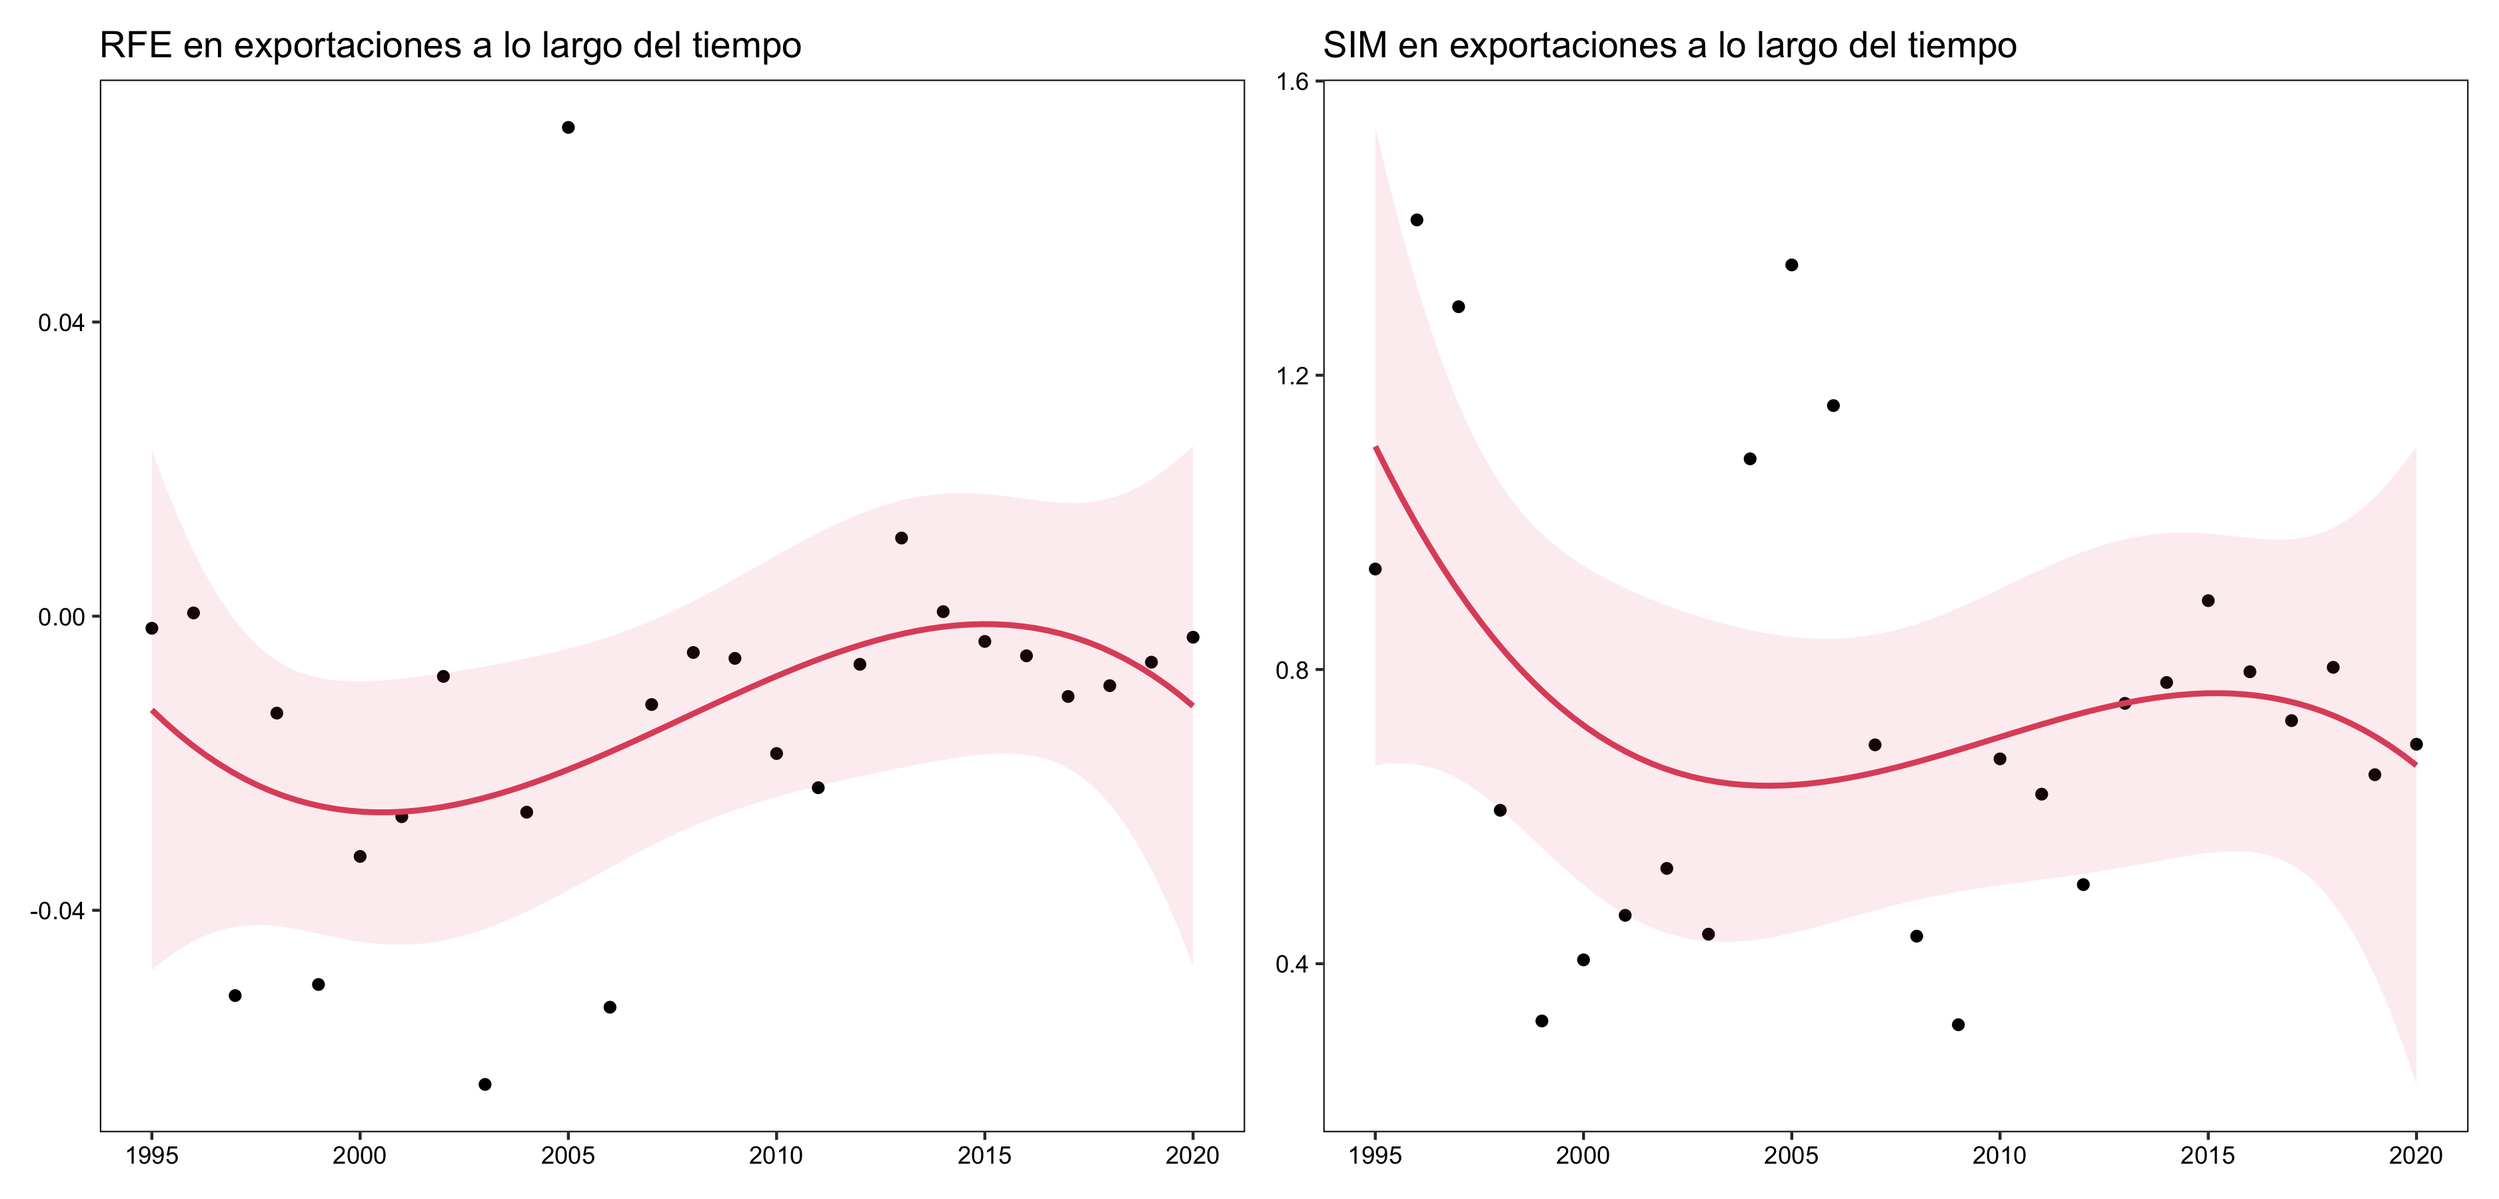
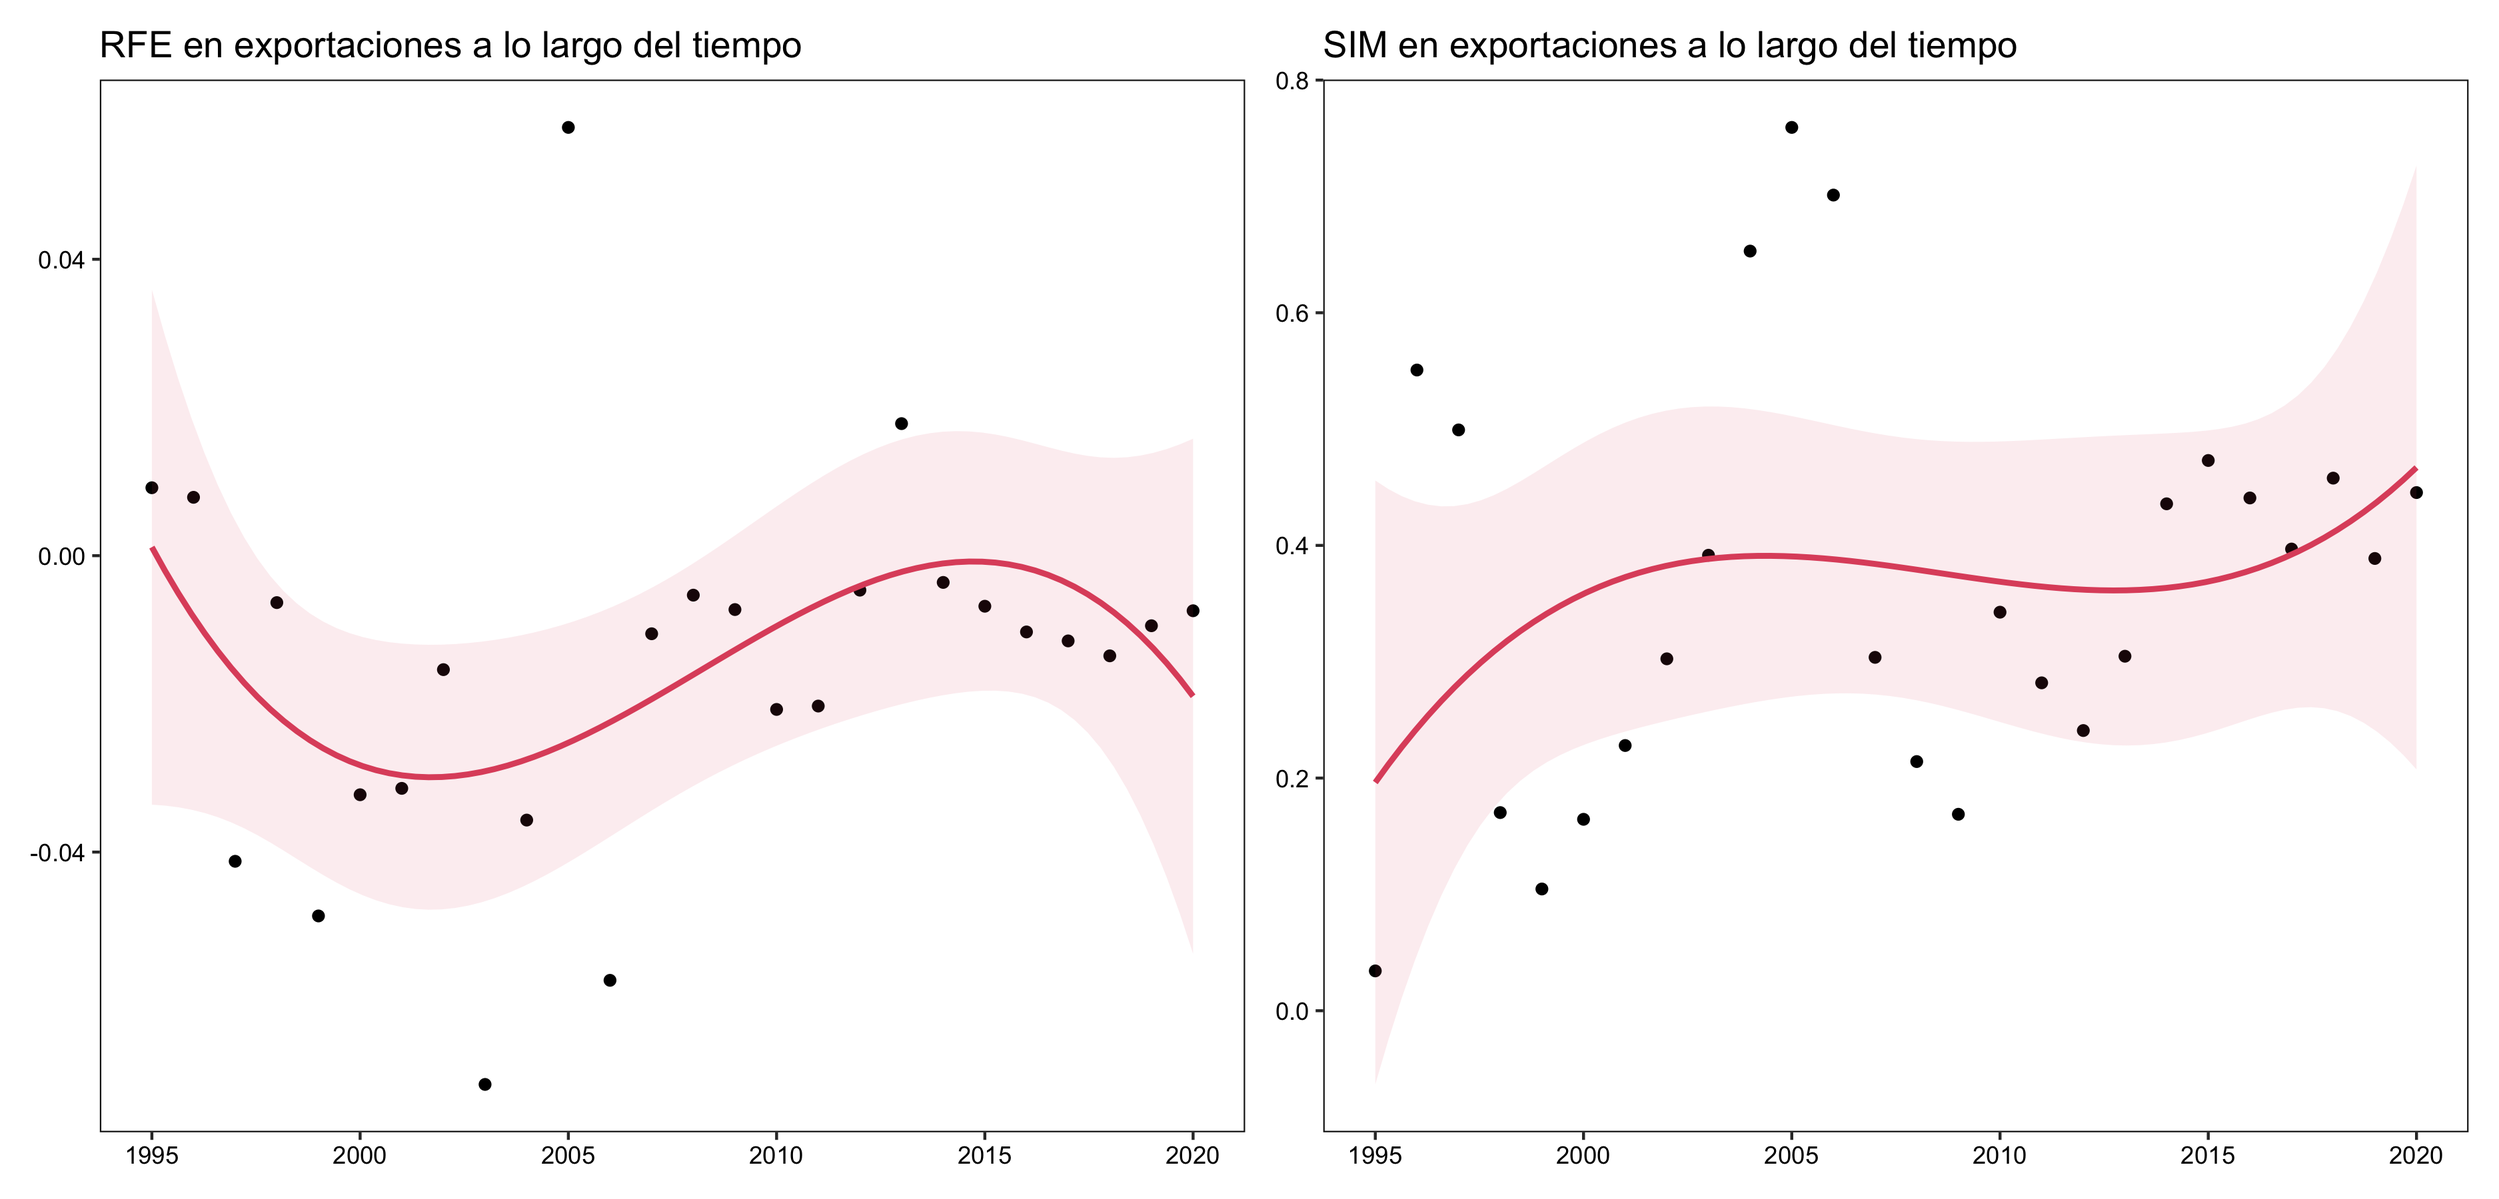
New SIM index

diff --git a/Econometrics/Results/imports.html b/Econometrics/Results/imports.html
@@ -1,41 +1,41 @@
 
 <table style="text-align:center"><tr><td colspan="5" style="border-bottom: 1px solid black"></td></tr><tr><td style="text-align:left"></td><td>OLS</td><td>REE</td><td>FEE</td><td>PPML</td></tr>
-<tr><td style="text-align:left">Suma bilateral del producto interno bruto</td><td>0.431</td><td>1.760<sup>***</sup></td><td>1.835<sup>***</sup></td><td>-0.006</td></tr>
-<tr><td style="text-align:left"></td><td>(0.447)</td><td>(0.262)</td><td>(0.307)</td><td>(0.014)</td></tr>
+<tr><td style="text-align:left">Suma bilateral del producto interno bruto</td><td>3.187<sup>***</sup></td><td>2.108<sup>***</sup></td><td>1.929<sup>***</sup></td><td>0.276<sup>***</sup></td></tr>
+<tr><td style="text-align:left"></td><td>(0.431)</td><td>(0.273)</td><td>(0.308)</td><td>(0.015)</td></tr>
 <tr><td style="text-align:left"></td><td></td><td></td><td></td><td></td></tr>
-<tr><td style="text-align:left">Diferencia en la proporción relativa de factores</td><td>0.301</td><td>-0.004</td><td>-0.023</td><td>-0.021</td></tr>
-<tr><td style="text-align:left"></td><td>(0.692)</td><td>(0.801)</td><td>(1.459)</td><td>(0.022)</td></tr>
+<tr><td style="text-align:left">Diferencia en la proporción relativa de factores</td><td>1.315<sup>*</sup></td><td>0.979</td><td>0.676</td><td>0.108<sup>***</sup></td></tr>
+<tr><td style="text-align:left"></td><td>(0.689)</td><td>(0.610)</td><td>(0.602)</td><td>(0.021)</td></tr>
 <tr><td style="text-align:left"></td><td></td><td></td><td></td><td></td></tr>
-<tr><td style="text-align:left">Similitud en el tamaño de las economías</td><td>23.998<sup>***</sup></td><td>15.061<sup>**</sup></td><td>14.485</td><td>2.416<sup>***</sup></td></tr>
-<tr><td style="text-align:left"></td><td>(5.999)</td><td>(6.206)</td><td>(20.212)</td><td>(0.202)</td></tr>
+<tr><td style="text-align:left">Similitud en el tamaño de las economías</td><td>17.705<sup>***</sup></td><td>11.487<sup>***</sup></td><td>10.143<sup>**</sup></td><td>1.713<sup>***</sup></td></tr>
+<tr><td style="text-align:left"></td><td>(3.311)</td><td>(3.571)</td><td>(5.084)</td><td>(0.114)</td></tr>
 <tr><td style="text-align:left"></td><td></td><td></td><td></td><td></td></tr>
-<tr><td style="text-align:left">Distancia entre principales centros urbanos</td><td>-2.685<sup>***</sup></td><td>-3.212<sup>***</sup></td><td></td><td>-0.221<sup>***</sup></td></tr>
-<tr><td style="text-align:left"></td><td>(0.503)</td><td>(0.582)</td><td></td><td>(0.015)</td></tr>
+<tr><td style="text-align:left">Distancia entre principales centros urbanos</td><td>-1.880<sup>***</sup></td><td>-1.617<sup>**</sup></td><td></td><td>-0.166<sup>***</sup></td></tr>
+<tr><td style="text-align:left"></td><td>(0.614)</td><td>(0.688)</td><td></td><td>(0.016)</td></tr>
 <tr><td style="text-align:left"></td><td></td><td></td><td></td><td></td></tr>
-<tr><td style="text-align:left">Tipo de cambio efectivo real</td><td>-0.064</td><td>-0.154<sup>*</sup></td><td>-0.166</td><td>-0.0002</td></tr>
-<tr><td style="text-align:left"></td><td>(0.113)</td><td>(0.082)</td><td>(0.101)</td><td>(0.003)</td></tr>
+<tr><td style="text-align:left">Tipo de cambio efectivo real</td><td>-0.129</td><td>-0.147<sup>**</sup></td><td>-0.148<sup>*</sup></td><td>-0.013<sup>***</sup></td></tr>
+<tr><td style="text-align:left"></td><td>(0.119)</td><td>(0.061)</td><td>(0.079)</td><td>(0.003)</td></tr>
 <tr><td style="text-align:left"></td><td></td><td></td><td></td><td></td></tr>
-<tr><td style="text-align:left">Fronteras en común</td><td>-2.816<sup>**</sup></td><td>-4.055<sup>**</sup></td><td></td><td>-0.291<sup>***</sup></td></tr>
-<tr><td style="text-align:left"></td><td>(1.388)</td><td>(1.735)</td><td></td><td>(0.033)</td></tr>
+<tr><td style="text-align:left">Fronteras en común</td><td>0.310</td><td>1.016</td><td></td><td>0.013</td></tr>
+<tr><td style="text-align:left"></td><td>(1.351)</td><td>(1.428)</td><td></td><td>(0.034)</td></tr>
 <tr><td style="text-align:left"></td><td></td><td></td><td></td><td></td></tr>
-<tr><td style="text-align:left">Lenguaje en común</td><td>7.043<sup>***</sup></td><td>8.263<sup>***</sup></td><td></td><td>0.733<sup>***</sup></td></tr>
-<tr><td style="text-align:left"></td><td>(1.402)</td><td>(2.195)</td><td></td><td>(0.056)</td></tr>
+<tr><td style="text-align:left">Lenguaje en común</td><td>6.548<sup>***</sup></td><td>3.976<sup>**</sup></td><td></td><td>0.657<sup>***</sup></td></tr>
+<tr><td style="text-align:left"></td><td>(1.299)</td><td>(1.571)</td><td></td><td>(0.048)</td></tr>
 <tr><td style="text-align:left"></td><td></td><td></td><td></td><td></td></tr>
-<tr><td style="text-align:left">Colonizador en común</td><td>-2.509</td><td>-2.648</td><td></td><td>-0.310<sup>***</sup></td></tr>
-<tr><td style="text-align:left"></td><td>(1.590)</td><td>(2.506)</td><td></td><td>(0.039)</td></tr>
+<tr><td style="text-align:left">Colonizador en común</td><td>-3.443<sup>**</sup></td><td>0.937</td><td></td><td>-0.402<sup>***</sup></td></tr>
+<tr><td style="text-align:left"></td><td>(1.608)</td><td>(0.927)</td><td></td><td>(0.040)</td></tr>
 <tr><td style="text-align:left"></td><td></td><td></td><td></td><td></td></tr>
-<tr><td style="text-align:left">Índice de similitud en creencias religiosas</td><td>-4.573<sup>*</sup></td><td>-4.999<sup>*</sup></td><td></td><td>-0.601<sup>***</sup></td></tr>
-<tr><td style="text-align:left"></td><td>(2.510)</td><td>(2.633)</td><td></td><td>(0.097)</td></tr>
+<tr><td style="text-align:left">Índice de similitud en creencias religiosas</td><td>-2.439</td><td>-2.882</td><td></td><td>-0.243<sup>***</sup></td></tr>
+<tr><td style="text-align:left"></td><td>(2.521)</td><td>(3.183)</td><td></td><td>(0.081)</td></tr>
 <tr><td style="text-align:left"></td><td></td><td></td><td></td><td></td></tr>
-<tr><td style="text-align:left">Acuerdos comerciales regionales</td><td>0.710</td><td>-0.094</td><td>-0.156</td><td>0.056<sup>**</sup></td></tr>
-<tr><td style="text-align:left"></td><td>(0.642)</td><td>(0.407)</td><td>(0.404)</td><td>(0.022)</td></tr>
+<tr><td style="text-align:left">Acuerdos comerciales regionales</td><td>-0.305</td><td>-0.523</td><td>-0.391</td><td>-0.100<sup>***</sup></td></tr>
+<tr><td style="text-align:left"></td><td>(0.763)</td><td>(0.417)</td><td>(0.432)</td><td>(0.021)</td></tr>
 <tr><td style="text-align:left"></td><td></td><td></td><td></td><td></td></tr>
-<tr><td style="text-align:left">Constante</td><td>1.746</td><td>-18.854<sup>***</sup></td><td></td><td>2.328<sup>***</sup></td></tr>
-<tr><td style="text-align:left"></td><td>(7.801)</td><td>(5.736)</td><td></td><td>(0.232)</td></tr>
+<tr><td style="text-align:left">Constante</td><td>-57.502<sup>***</sup></td><td>-31.031<sup>***</sup></td><td></td><td>-3.633<sup>***</sup></td></tr>
+<tr><td style="text-align:left"></td><td>(13.017)</td><td>(8.535)</td><td></td><td>(0.378)</td></tr>
 <tr><td style="text-align:left"></td><td></td><td></td><td></td><td></td></tr>
 <tr><td colspan="5" style="border-bottom: 1px solid black"></td></tr><tr><td style="text-align:left">Observations</td><td>780</td><td>780</td><td>780</td><td>780</td></tr>
-<tr><td style="text-align:left">R<sup>2</sup></td><td>0.764</td><td>0.289</td><td>0.175</td><td></td></tr>
-<tr><td style="text-align:left">Adjusted R<sup>2</sup></td><td>0.761</td><td>0.280</td><td>0.137</td><td></td></tr>
-<tr><td style="text-align:left">F Statistic</td><td>249.090<sup>***</sup> (df = 10; 769)</td><td>313.255<sup>***</sup></td><td>31.553<sup>***</sup> (df = 5; 745)</td><td></td></tr>
+<tr><td style="text-align:left">R<sup>2</sup></td><td>0.780</td><td>0.291</td><td>0.185</td><td></td></tr>
+<tr><td style="text-align:left">Adjusted R<sup>2</sup></td><td>0.777</td><td>0.282</td><td>0.148</td><td></td></tr>
+<tr><td style="text-align:left">F Statistic</td><td>272.931<sup>***</sup> (df = 10; 769)</td><td>315.699<sup>***</sup></td><td>33.925<sup>***</sup> (df = 5; 745)</td><td></td></tr>
 <tr><td colspan="5" style="border-bottom: 1px solid black"></td></tr><tr><td style="text-align:left"><em>Note:</em></td><td colspan="4" style="text-align:right"><sup>*</sup>p<0.1; <sup>**</sup>p<0.05; <sup>***</sup>p<0.01</td></tr>
 </table>

diff --git a/Econometrics/Results/exports.html b/Econometrics/Results/exports.html
@@ -1,41 +1,41 @@
 
 <table style="text-align:center"><tr><td colspan="5" style="border-bottom: 1px solid black"></td></tr><tr><td style="text-align:left"></td><td>OLS</td><td>REE</td><td>FEE</td><td>PPML</td></tr>
-<tr><td style="text-align:left">Suma bilateral del producto interno bruto</td><td>1.139<sup>***</sup></td><td>1.801<sup>***</sup></td><td>1.889<sup>***</sup></td><td>0.068<sup>***</sup></td></tr>
-<tr><td style="text-align:left"></td><td>(0.201)</td><td>(0.175)</td><td>(0.176)</td><td>(0.005)</td></tr>
+<tr><td style="text-align:left">Suma bilateral del producto interno bruto</td><td>1.662<sup>***</sup></td><td>1.859<sup>***</sup></td><td>1.892<sup>***</sup></td><td>0.110<sup>***</sup></td></tr>
+<tr><td style="text-align:left"></td><td>(0.183)</td><td>(0.167)</td><td>(0.177)</td><td>(0.006)</td></tr>
 <tr><td style="text-align:left"></td><td></td><td></td><td></td><td></td></tr>
-<tr><td style="text-align:left">Diferencia en la proporción relativa de factores</td><td>-0.364</td><td>-0.463</td><td>-0.688<sup>*</sup></td><td>-0.027<sup>***</sup></td></tr>
-<tr><td style="text-align:left"></td><td>(0.408)</td><td>(0.299)</td><td>(0.377)</td><td>(0.009)</td></tr>
+<tr><td style="text-align:left">Diferencia en la proporción relativa de factores</td><td>-0.252</td><td>-0.478<sup>*</sup></td><td>-0.459</td><td>-0.015<sup>*</sup></td></tr>
+<tr><td style="text-align:left"></td><td>(0.455)</td><td>(0.285)</td><td>(0.283)</td><td>(0.009)</td></tr>
 <tr><td style="text-align:left"></td><td></td><td></td><td></td><td></td></tr>
-<tr><td style="text-align:left">Similitud en el tamaño de las economías</td><td>3.722<sup>**</sup></td><td>0.164</td><td>4.164</td><td>0.307<sup>***</sup></td></tr>
-<tr><td style="text-align:left"></td><td>(1.840)</td><td>(1.696)</td><td>(4.052)</td><td>(0.047)</td></tr>
+<tr><td style="text-align:left">Similitud en el tamaño de las economías</td><td>4.718<sup>***</sup></td><td>2.858<sup>**</sup></td><td>1.194</td><td>0.348<sup>***</sup></td></tr>
+<tr><td style="text-align:left"></td><td>(1.460)</td><td>(1.362)</td><td>(1.918)</td><td>(0.037)</td></tr>
 <tr><td style="text-align:left"></td><td></td><td></td><td></td><td></td></tr>
-<tr><td style="text-align:left">Distancia entre principales centros urbanos</td><td>-2.711<sup>***</sup></td><td>-3.278<sup>***</sup></td><td></td><td>-0.171<sup>***</sup></td></tr>
-<tr><td style="text-align:left"></td><td>(0.376)</td><td>(0.353)</td><td></td><td>(0.008)</td></tr>
+<tr><td style="text-align:left">Distancia entre principales centros urbanos</td><td>-2.472<sup>***</sup></td><td>-3.088<sup>***</sup></td><td></td><td>-0.156<sup>***</sup></td></tr>
+<tr><td style="text-align:left"></td><td>(0.335)</td><td>(0.341)</td><td></td><td>(0.007)</td></tr>
 <tr><td style="text-align:left"></td><td></td><td></td><td></td><td></td></tr>
-<tr><td style="text-align:left">Tipo de cambio efectivo real</td><td>-0.028</td><td>-0.015</td><td>0.016</td><td>-0.001</td></tr>
-<tr><td style="text-align:left"></td><td>(0.101)</td><td>(0.045)</td><td>(0.027)</td><td>(0.002)</td></tr>
+<tr><td style="text-align:left">Tipo de cambio efectivo real</td><td>-0.025</td><td>-0.009</td><td>0.020</td><td>-0.002</td></tr>
+<tr><td style="text-align:left"></td><td>(0.097)</td><td>(0.042)</td><td>(0.029)</td><td>(0.002)</td></tr>
 <tr><td style="text-align:left"></td><td></td><td></td><td></td><td></td></tr>
-<tr><td style="text-align:left">Fronteras en común</td><td>-2.545<sup>***</sup></td><td>-3.474<sup>***</sup></td><td></td><td>-0.175<sup>***</sup></td></tr>
-<tr><td style="text-align:left"></td><td>(0.809)</td><td>(0.912)</td><td></td><td>(0.015)</td></tr>
+<tr><td style="text-align:left">Fronteras en común</td><td>-1.691<sup>**</sup></td><td>-2.717<sup>***</sup></td><td></td><td>-0.116<sup>***</sup></td></tr>
+<tr><td style="text-align:left"></td><td>(0.710)</td><td>(0.783)</td><td></td><td>(0.013)</td></tr>
 <tr><td style="text-align:left"></td><td></td><td></td><td></td><td></td></tr>
-<tr><td style="text-align:left">Lenguaje en común</td><td>1.289</td><td>1.917</td><td></td><td>0.118<sup>***</sup></td></tr>
-<tr><td style="text-align:left"></td><td>(0.905)</td><td>(1.276)</td><td></td><td>(0.022)</td></tr>
+<tr><td style="text-align:left">Lenguaje en común</td><td>1.044</td><td>1.331</td><td></td><td>0.104<sup>***</sup></td></tr>
+<tr><td style="text-align:left"></td><td>(0.843)</td><td>(1.034)</td><td></td><td>(0.020)</td></tr>
 <tr><td style="text-align:left"></td><td></td><td></td><td></td><td></td></tr>
-<tr><td style="text-align:left">Colonizador en común</td><td>-0.513</td><td>-0.391</td><td></td><td>-0.069<sup>***</sup></td></tr>
-<tr><td style="text-align:left"></td><td>(0.679)</td><td>(1.171)</td><td></td><td>(0.016)</td></tr>
+<tr><td style="text-align:left">Colonizador en común</td><td>-1.045<sup>*</sup></td><td>-0.560</td><td></td><td>-0.106<sup>***</sup></td></tr>
+<tr><td style="text-align:left"></td><td>(0.626)</td><td>(0.823)</td><td></td><td>(0.016)</td></tr>
 <tr><td style="text-align:left"></td><td></td><td></td><td></td><td></td></tr>
-<tr><td style="text-align:left">Índice de similitud en creencias religiosas</td><td>-1.817</td><td>-1.935</td><td></td><td>-0.125<sup>***</sup></td></tr>
-<tr><td style="text-align:left"></td><td>(1.143)</td><td>(1.194)</td><td></td><td>(0.032)</td></tr>
+<tr><td style="text-align:left">Índice de similitud en creencias religiosas</td><td>-1.344</td><td>-1.637</td><td></td><td>-0.087<sup>***</sup></td></tr>
+<tr><td style="text-align:left"></td><td>(1.079)</td><td>(1.102)</td><td></td><td>(0.030)</td></tr>
 <tr><td style="text-align:left"></td><td></td><td></td><td></td><td></td></tr>
-<tr><td style="text-align:left">Acuerdos comerciales regionales</td><td>1.221<sup>***</sup></td><td>0.023</td><td>-0.076</td><td>0.069<sup>***</sup></td></tr>
-<tr><td style="text-align:left"></td><td>(0.460)</td><td>(0.202)</td><td>(0.205)</td><td>(0.012)</td></tr>
+<tr><td style="text-align:left">Acuerdos comerciales regionales</td><td>1.119<sup>**</sup></td><td>-0.030</td><td>-0.114</td><td>0.056<sup>***</sup></td></tr>
+<tr><td style="text-align:left"></td><td>(0.449)</td><td>(0.197)</td><td>(0.200)</td><td>(0.011)</td></tr>
 <tr><td style="text-align:left"></td><td></td><td></td><td></td><td></td></tr>
-<tr><td style="text-align:left">Constante</td><td>5.610</td><td>-3.146</td><td></td><td>2.153<sup>***</sup></td></tr>
-<tr><td style="text-align:left"></td><td>(4.506)</td><td>(3.644)</td><td></td><td>(0.090)</td></tr>
+<tr><td style="text-align:left">Constante</td><td>-7.195<sup>*</sup></td><td>-6.529<sup>*</sup></td><td></td><td>1.162<sup>***</sup></td></tr>
+<tr><td style="text-align:left"></td><td>(4.303)</td><td>(3.476)</td><td></td><td>(0.130)</td></tr>
 <tr><td style="text-align:left"></td><td></td><td></td><td></td><td></td></tr>
 <tr><td colspan="5" style="border-bottom: 1px solid black"></td></tr><tr><td style="text-align:left">Observations</td><td>780</td><td>780</td><td>780</td><td>780</td></tr>
-<tr><td style="text-align:left">R<sup>2</sup></td><td>0.730</td><td>0.433</td><td>0.385</td><td></td></tr>
-<tr><td style="text-align:left">Adjusted R<sup>2</sup></td><td>0.726</td><td>0.425</td><td>0.357</td><td></td></tr>
-<tr><td style="text-align:left">F Statistic</td><td>207.430<sup>***</sup> (df = 10; 769)</td><td>586.185<sup>***</sup></td><td>93.414<sup>***</sup> (df = 5; 745)</td><td></td></tr>
+<tr><td style="text-align:left">R<sup>2</sup></td><td>0.748</td><td>0.437</td><td>0.385</td><td></td></tr>
+<tr><td style="text-align:left">Adjusted R<sup>2</sup></td><td>0.744</td><td>0.430</td><td>0.357</td><td></td></tr>
+<tr><td style="text-align:left">F Statistic</td><td>227.665<sup>***</sup> (df = 10; 769)</td><td>597.388<sup>***</sup></td><td>93.249<sup>***</sup> (df = 5; 745)</td><td></td></tr>
 <tr><td colspan="5" style="border-bottom: 1px solid black"></td></tr><tr><td style="text-align:left"><em>Note:</em></td><td colspan="4" style="text-align:right"><sup>*</sup>p<0.1; <sup>**</sup>p<0.05; <sup>***</sup>p<0.01</td></tr>
 </table>
